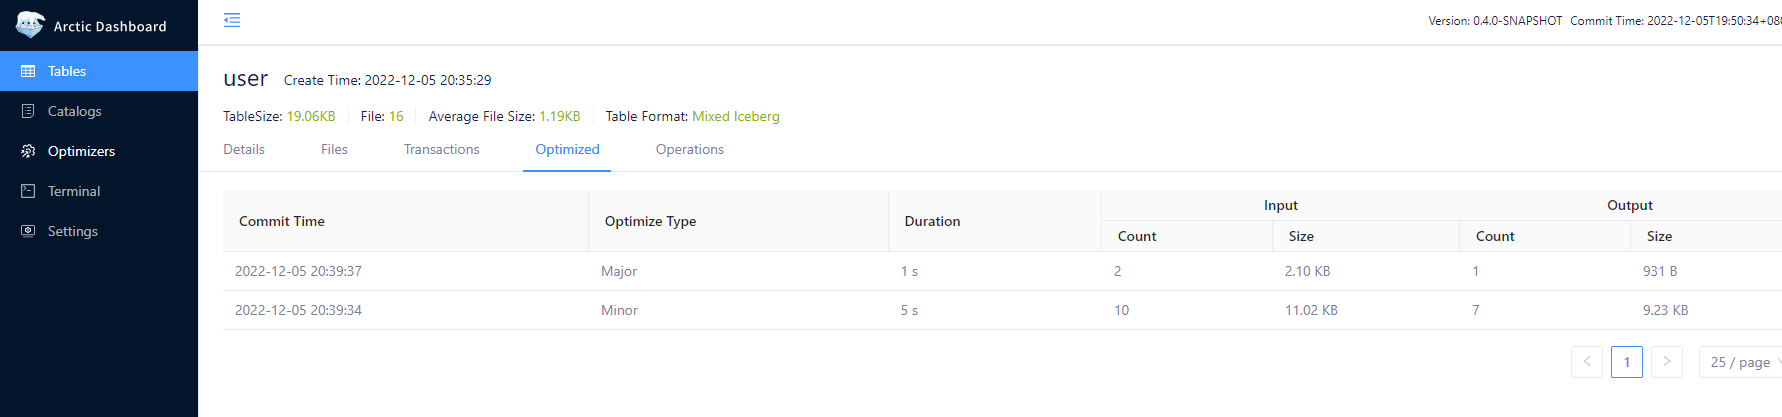
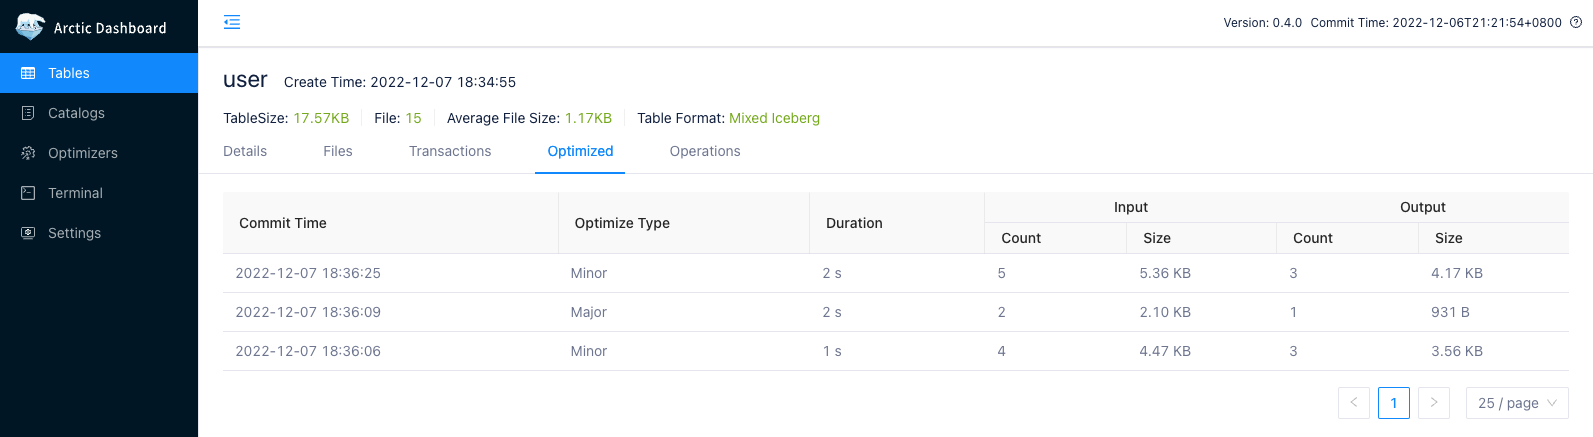
change the png of optimizer in quick-start

diff --git a/site/docs/ch/quickstart/quick-demo.md b/site/docs/ch/quickstart/quick-demo.md
@@ -181,11 +181,11 @@ DELETE|3|lee|2022-07-01 10:11:00
 - Quota Occupation：最近1个小时内，该表的实际配额占用百分比
 
 从左侧菜单进入到 Tables 页面，选择测试表并进入到 Optimized 目录 可以看到表的历史结构优化记录。 
-如果已经完成实时写入与读取，测试表预期会进行2次结构优化，分别是1次 Minor optimize, 一次 Major optimize。
+如果已经完成实时写入与读取，测试表预期会进行3次结构优化，分别是2次 Minor optimize, 1次 Major optimize。
 
 ![Table optimized history](../images/quickstart/table-optimized-history.png)
 
-上图中，第一行提交为 major optimize，第二行提交为 minor optimize，其中：
+上图中，第一行提交为 minor optimize，第二行提交为 major optimize，其中：
 
 - CommitTime：结构优化的提交时间
 
